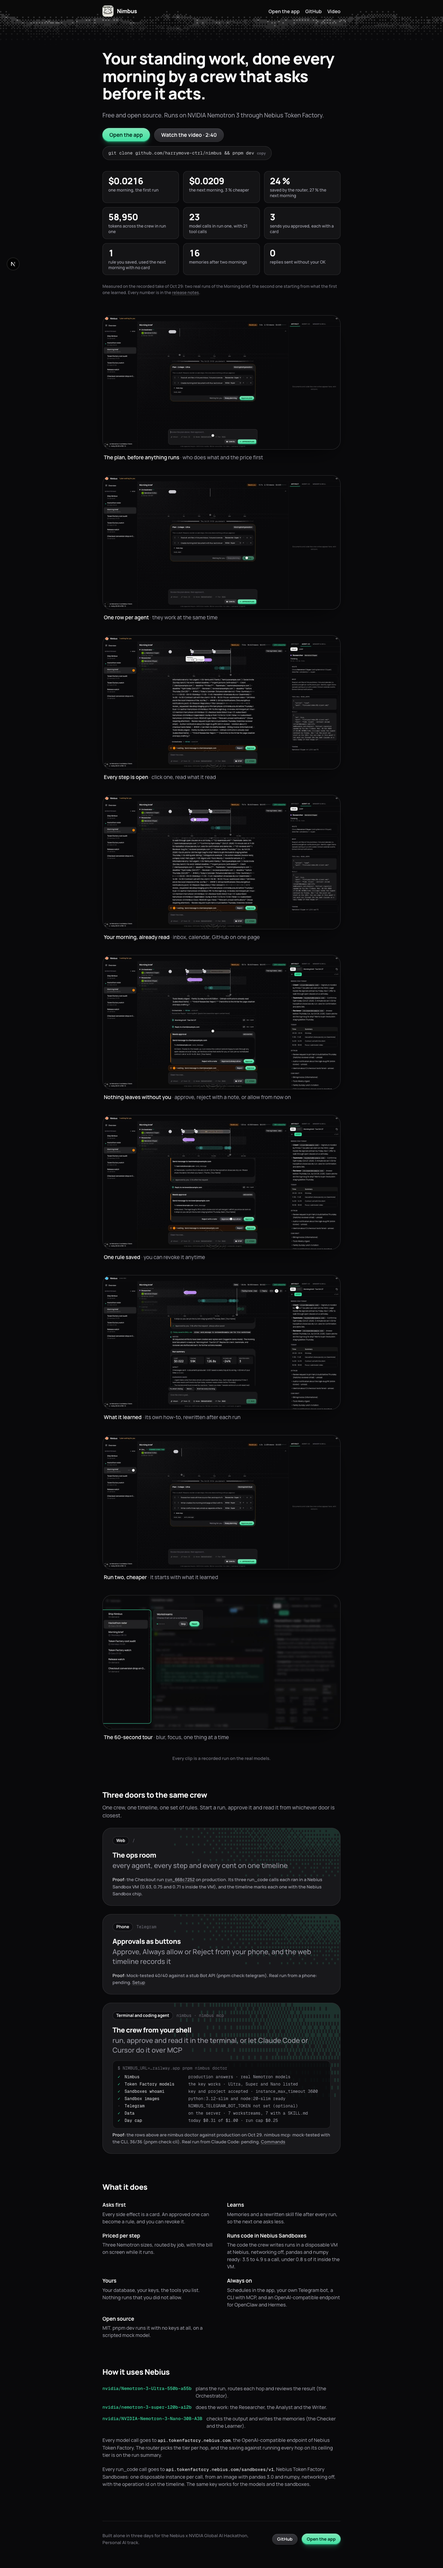
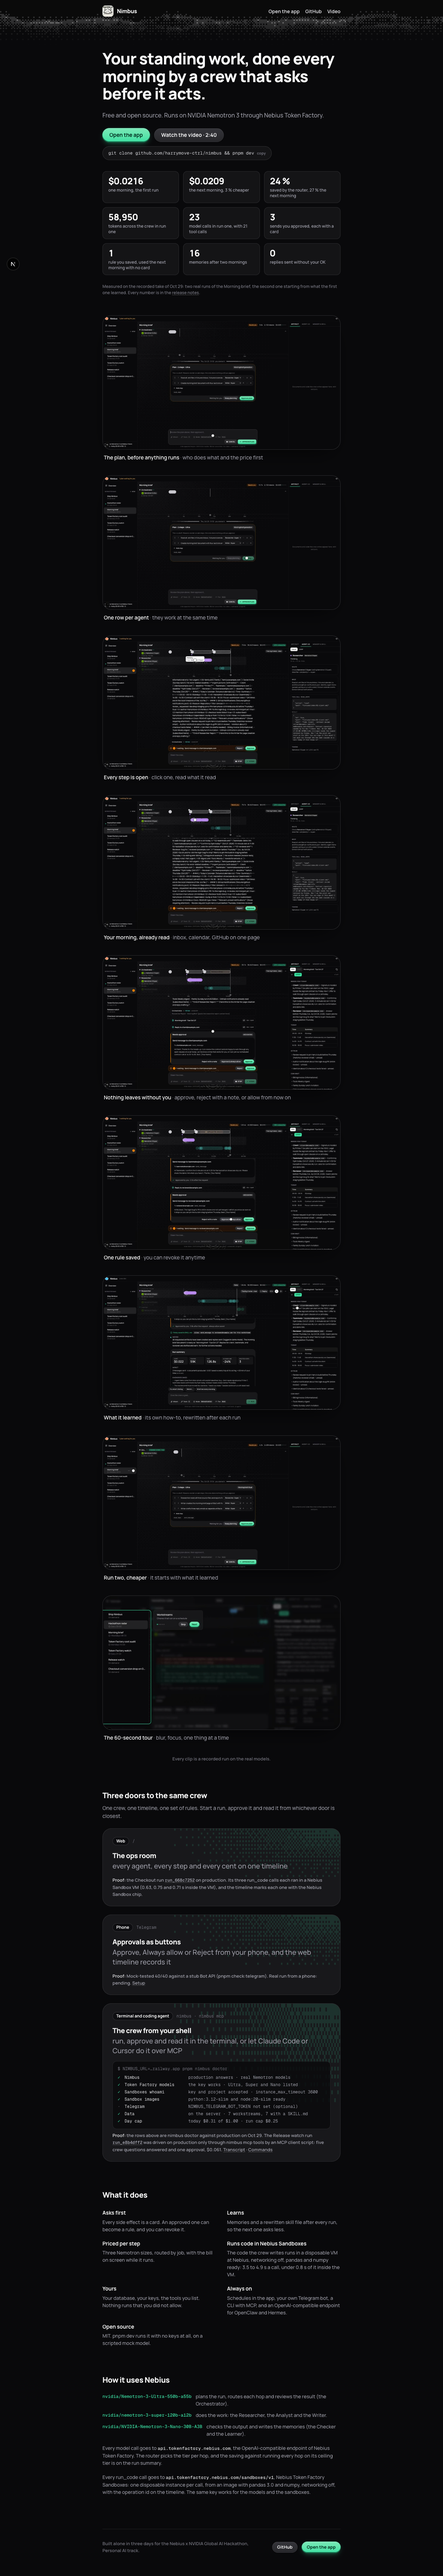
Three doors: the MCP door has its real run
run_e8b4dff2 (Release watch, $0.061) was driven on production only
through nimbus mcp tools by an MCP client script, five answers and one
approval, transcript in docs/mcp/2026-10-29-release-watch.md. The
landing card, README and Devpost text say so; the unverified list keeps
what that run did not show. Telegram stays pending.

diff --git a/src/app/welcome/page.tsx b/src/app/welcome/page.tsx
@@ -50,10 +50,12 @@ const LOOPS = [
 
 // Three doors to the same crew. Each proof line is what was checked, and nothing more: the web line is the production
 // run run_668c7252 (its events: three run_code calls with where "nebius-sandbox", 0.63, 0.75 and 0.71 s inside the
-// VM); the phone and MCP lines say "pending" until a real run exists, so each is one string to change.
+// VM); the MCP line is the production run run_e8b4dff2 (docs/mcp/2026-10-29-release-watch.md); the phone line says
+// "pending" until a real run exists, so it is one string to change.
 const SANDBOX_RUN = "run_668c7252";
 const TELEGRAM_PROOF = "Mock-tested 40/40 against a stub Bot API (pnpm check:telegram). Real run from a phone: pending.";
-const MCP_PROOF = "nimbus mcp: mock-tested with the CLI, 36/36 (pnpm check:cli). Real run from Claude Code: pending.";
+const MCP_RUN = "run_e8b4dff2";
+const MCP_PROOF = "was driven on production only through nimbus mcp tools by an MCP client script: five crew questions answered and one approval, $0.061.";
 // docs/CLI.md "nimbus doctor", read only against production on Oct 29. The Telegram row is optional and was not set.
 const DOCTOR = [
   { ok: true, name: "Nimbus", detail: "production answers · real Nemotron models" },
@@ -222,7 +224,15 @@ export default function Welcome() {
               </ul>
             </div>
             <p>
-              <span className="text-neutral-200">Proof:</span> the rows above are nimbus doctor against production on Oct 29. {MCP_PROOF}{" "}
+              <span className="text-neutral-200">Proof:</span> the rows above are nimbus doctor against production on Oct 29. The Release watch run{" "}
+              <Link href={`/?run=${MCP_RUN}`} className={cx(proofLink, "font-mono text-[12px]")}>
+                {MCP_RUN}
+              </Link>{" "}
+              {MCP_PROOF}{" "}
+              <a href={DOC("mcp/2026-10-29-release-watch.md")} className={proofLink}>
+                Transcript
+              </a>
+              {" · "}
               <a href={DOC("CLI.md")} className={proofLink}>
                 Commands
               </a>

diff --git a/docs/SUBMISSION.md b/docs/SUBMISSION.md
@@ -82,7 +82,7 @@ After the run finishes, a Learner agent on `Nemotron 3 Nano 30B` extracts vector
 One crew, one timeline, one set of rules, reachable from whichever door is closest:
 - **Web, the ops room.** Everything above: the plan, the lanes, the cards, the memories and the skill file, with the cost of every hop.
 - **Phone, Telegram.** Nimbus reads its own bot. `/run morning brief` becomes one progress message edited in place, and approvals and crew questions arrive as buttons (**Approve**, **Always allow**, **Reject**) that the web timeline records as `via telegram`. Tested end to end against a stub Bot API (40/40); the real run from a phone is still pending.
-- **Terminal and coding agent, `nimbus` and `nimbus mcp`.** `pnpm nimbus run checkout` follows a run as text and asks for each approval in the terminal; `nimbus mcp` is a stdio MCP server, so Claude Code, Cursor, OpenClaw or Hermes can start a run, wait for its approval, approve it and read the result. `nimbus doctor` is green against production; the CLI and MCP server pass 36/36 in mock, and the real Claude Code run is still pending.
+- **Terminal and coding agent, `nimbus` and `nimbus mcp`.** `pnpm nimbus run checkout` follows a run as text and asks for each approval in the terminal; `nimbus mcp` is a stdio MCP server, so Claude Code, Cursor, OpenClaw or Hermes can start a run, wait for its approval, approve it and read the result. `nimbus doctor` is green against production, and on production an MCP client script drove the Release watch run `run_e8b4dff2` end to end through `nimbus mcp` tools alone: five crew questions answered and one approval, $0.061 ([transcript](https://github.com/harrymove-ctrl/nimbus/blob/main/docs/mcp/2026-10-29-release-watch.md)).
 
 The older chat door stays: an OpenAI-compatible `/v1/chat/completions` endpoint, so OpenClaw, Hermes Agent, or NemoClaw can ask `"what needs me?"`, start a run, and approve pending cards with ten lines of config, while every step records into the same web timeline.
 
@@ -95,7 +95,7 @@ When the crew writes Python to answer a question about your data, that code does
 - **Token Factory Cost Audit & Watch:** Audits Nimbus's own SQLite call log, runs A/B trajectory evaluations (`pnpm eval:ab`), and proposes `router-rules.json` changes that cut run spend by an additional **15.3%**.
 - **Hackathon Radar:** Scheduled research using **Tavily** web search that compares updates against yesterday's memories and queues a three-bullet digest for approval.
 
-Every workstream on the live demo has at least one finished run on the real models (Oct 29, 2026, UTC), so a judge can open any of them and read the plan, the lanes, the approvals and the cost: Morning brief `run_782c6eff` (cron 08:00, $0.020) and `run_0c6cdb23` ($0.022); Hackathon radar `run_3066dc6c` (cron 09:00, $0.013); Ship Nimbus `run_ebcd619b` ($0.016, 15 model calls, 13 tool calls); Token Factory cost audit `run_876af0c5` ($0.005); Token Factory watch `run_fb68d365` ($0.046, 54 model calls); Release watch `run_85b5b8e6` ($0.027; its "open PR: Upgrade Next.js to v16.4.3" card was rejected with a note, so the gate is on record); Checkout conversion drop `run_bd1ee7a8` ($0.077, the reply to #growth approved) and, after the attached-files fix, `run_41d10ede` ($0.015, 50 s, no questions asked, six run_code calls on data.csv and inbox.csv, the #growth message approved). From 21:30 ICT on Oct 29 the crew's `run_code` executes in Nebius Token Factory Sandboxes: Checkout `run_668c7252` ($0.009, 51 s) made three run_code calls on data.csv and inbox.csv, each in its own disposable VM at Nebius (an imported image with pandas 3.0 and numpy, networking off), taking 4.9, 3.5 and 3.5 s per call end to end, of which 0.63, 0.75 and 0.71 s ran inside the VM, and Agent I/O shows the **Nebius Sandbox** chip with the image and operation id on each call. The two new doors are tested in mock and wait for their real runs: the Telegram bot passes 40/40 against a stub Bot API, the CLI and MCP server pass 36/36, and `nimbus doctor` against production is green on every row it checks. Nothing on the demo is mock: `/api/budget` reports `mock: false` and every run carries real Nemotron usage events.
+Every workstream on the live demo has at least one finished run on the real models (Oct 29, 2026, UTC), so a judge can open any of them and read the plan, the lanes, the approvals and the cost: Morning brief `run_782c6eff` (cron 08:00, $0.020) and `run_0c6cdb23` ($0.022); Hackathon radar `run_3066dc6c` (cron 09:00, $0.013); Ship Nimbus `run_ebcd619b` ($0.016, 15 model calls, 13 tool calls); Token Factory cost audit `run_876af0c5` ($0.005); Token Factory watch `run_fb68d365` ($0.046, 54 model calls); Release watch `run_85b5b8e6` ($0.027; its "open PR: Upgrade Next.js to v16.4.3" card was rejected with a note, so the gate is on record); Checkout conversion drop `run_bd1ee7a8` ($0.077, the reply to #growth approved) and, after the attached-files fix, `run_41d10ede` ($0.015, 50 s, no questions asked, six run_code calls on data.csv and inbox.csv, the #growth message approved). From 21:30 ICT on Oct 29 the crew's `run_code` executes in Nebius Token Factory Sandboxes: Checkout `run_668c7252` ($0.009, 51 s) made three run_code calls on data.csv and inbox.csv, each in its own disposable VM at Nebius (an imported image with pandas 3.0 and numpy, networking off), taking 4.9, 3.5 and 3.5 s per call end to end, of which 0.63, 0.75 and 0.71 s ran inside the VM, and Agent I/O shows the **Nebius Sandbox** chip with the image and operation id on each call. The MCP door has its real run: Release watch `run_e8b4dff2` ($0.061, 82.5 s of run time) was driven only through `nimbus mcp` tools by an MCP client script (list_workstreams, start_run, wait_for_run at each gate, answer, approve, run_status, read_artifact, list_memories), six decisions in all, with the transcript in `docs/mcp/2026-10-29-release-watch.md`; `nimbus doctor` against production is green on every row it checks. The Telegram door is tested in mock only (40/40 against a stub Bot API) and waits for its real run from a phone. Nothing on the demo is mock: `/api/budget` reports `mock: false` and every run carries real Nemotron usage events.
 
 ### Measured numbers on live Nebius Token Factory runs
 
@@ -107,6 +107,7 @@ All numbers below come from real NVIDIA Nemotron 3 runs on Nebius Token Factory 
 | **Morning Brief Run 2** (`run_915dfc1d`) | **$0.0209** | 57,015 | 20 / 18 | $0.0287 | **27%** | **3% cheaper** than Run 1; reviewer reply sent under rule with no card; **16 memories** held |
 | **Live Chat API Run** (`run_6b393ab6`) | **$0.0282** | 76,827 | 24 / 21 | N/A | N/A | Triggered and approved end to end via `/v1/chat/completions`; 8 memories saved |
 | **Sandboxes Run** (`run_668c7252`) | **$0.0092** | 20,060 | 8 / 7 | N/A | N/A | 3 `run_code` calls, each in its own Nebius Sandbox VM, 0.63 to 0.75 s inside |
+| **MCP Run** (`run_e8b4dff2`) | **$0.061** | N/A | N/A | N/A | N/A | Release watch driven only through `nimbus mcp` tools by an MCP client script; 6 decisions (5 answers, 1 approval); 8 memories |
 | **Unapproved sends** | **$0.0000** | 0 | 0 / 0 | N/A | N/A | Every outgoing action waited for human approval or matched an active rule |
 
 ---
@@ -350,8 +351,7 @@ Three Nemotron 3 tiers on Nebius Token Factory: Ultra plans, Super writes, Nano 
 Say "mock-tested" or "pending" for each of these until a real run exists, and move a line out only with its run id or transcript.
 
 - **Telegram, real run from a phone: pending.** Only the mock test exists: `pnpm check:telegram` 40/40 against a stub Bot API. The bot token was not on Railway when this was written.
-- **MCP, real run from Claude Code against production: pending.** Only the mock test exists: `pnpm check:cli` 36/36, which drives `nimbus mcp` with the SDK's client.
-  - PLANNER PLACEHOLDER, replace this line: "Real MCP run: `docs/mcp/<transcript>.md`, run `run_<id>` on production (trigger api)."
+- **MCP from a chat agent: not done.** The real MCP run (`run_e8b4dff2`, transcript `docs/mcp/2026-10-29-release-watch.md`) was driven by an MCP client script, not by Claude Code or Cursor with a person at the keyboard. In that run `read_artifact` answered "no artifact yet", and the run record shows trigger `manual`, not `api`.
 - **CLI, real `nimbus run checkout` against production: pending.** `nimbus doctor` against production is real (every row green, the optional Telegram row not set); the `nimbus run` example in `docs/CLI.md` is on a local server.
 - **`/v1/chat/completions` with a real OpenClaw or Hermes client: not done.** `run_6b393ab6` was started and approved over the endpoint itself, not from either client.
 - **Sandboxes scope.** Only `run_code` runs in Nebius Sandboxes. The Ship Nimbus `shell` commands (`pnpm eval`, `pnpm typecheck`) still run as an allow-listed subprocess on the server.
@@ -376,5 +376,5 @@ The twelve 3:2 frames in `docs/gallery/` (3600 x 2400 JPEG, real screenshots fro
 11. `11-chat-app.jpg`: the same crew from a chat app over the OpenAI-compatible endpoint.
 12. `12-try-it.jpg`: try it in two minutes, `pnpm dev` with no keys.
 
-Not made yet, worth adding as frames 13 and 14 once the footage exists (nothing staged): the Telegram approval card from the real phone run, and a terminal frame of `nimbus doctor` plus `nimbus run checkout` against production. `docs/ui-ux-qa/welcome-doors-1280.png` (688 x 1053, not 3:2) is QA evidence of the `/welcome` section, not a gallery frame.
+Not made yet, worth adding as frames 13 and 14 once the footage exists (nothing staged): the Telegram approval card from the real phone run, and a terminal frame of `nimbus doctor` against production next to the MCP transcript of `run_e8b4dff2`. `docs/ui-ux-qa/welcome-doors-1280.png` (688 x 1053, not 3:2) is QA evidence of the `/welcome` section, not a gallery frame.
 

diff --git a/README.md b/README.md
@@ -21,7 +21,7 @@ One crew, one timeline, one set of rules: start a run, approve it and read it fr
 
 - **Web: the ops room** ([live app](https://nimbus-production-6f7b.up.railway.app)). Every agent, every step and every cent on one live timeline, with the approval cards, the memories and the rewritten `SKILL.md` beside it. Proof: the production Checkout run [`run_668c7252`](https://nimbus-production-6f7b.up.railway.app/?run=run_668c7252) shows its three `run_code` calls with the **Nebius Sandbox** chip ([walkthrough](#quick-walkthrough-for-judges), [docs/SANDBOX.md](docs/SANDBOX.md)).
 - **Phone: Telegram.** Nimbus reads its own bot, so `/run morning brief` becomes one progress message edited in place, and approvals and crew questions arrive as buttons (**Approve · Always allow · Reject**) that the web timeline records as `via telegram`. Mock-tested 40/40 with `pnpm check:telegram`; the real run from a phone is pending ([docs/TELEGRAM.md](docs/TELEGRAM.md)).
-- **Terminal and coding agent: `nimbus` and `nimbus mcp`.** `pnpm nimbus run checkout` follows a run as text and asks for the plan, each approval and each question in the terminal, and `nimbus mcp` lets Claude Code, Cursor, OpenClaw or Hermes do the same over MCP. `nimbus doctor` is green against production; the CLI and MCP server are mock-tested 36/36 with `pnpm check:cli`, and the real Claude Code run is pending ([docs/CLI.md](docs/CLI.md)).
+- **Terminal and coding agent: `nimbus` and `nimbus mcp`.** `pnpm nimbus run checkout` follows a run as text and asks for the plan, each approval and each question in the terminal, and `nimbus mcp` lets Claude Code, Cursor, OpenClaw or Hermes do the same over MCP. `nimbus doctor` is green against production, and the Release watch run [`run_e8b4dff2`](https://nimbus-production-6f7b.up.railway.app/?run=run_e8b4dff2) ($0.061) was driven on production only through `nimbus mcp` tools by an MCP client script, six decisions in all ([transcript](docs/mcp/2026-10-29-release-watch.md), [docs/CLI.md](docs/CLI.md)).
 
 ---
 
